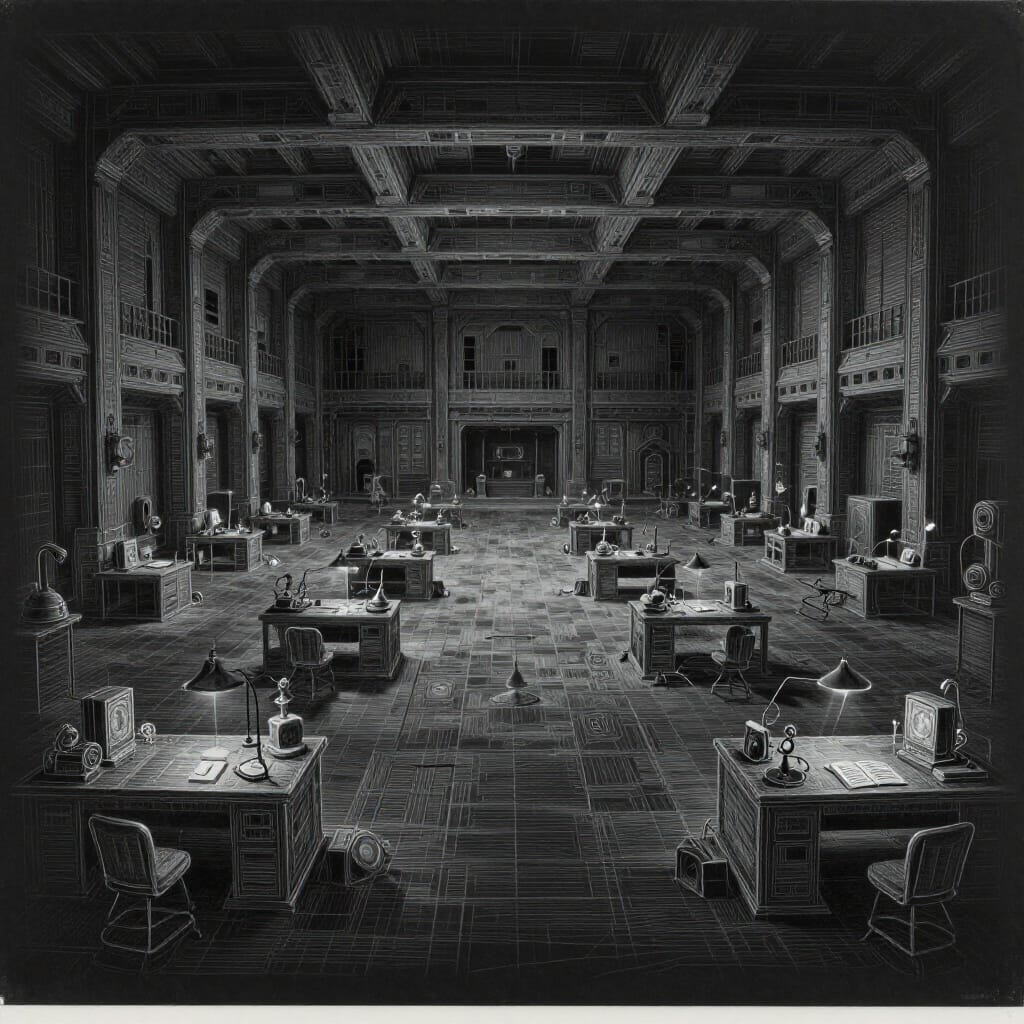
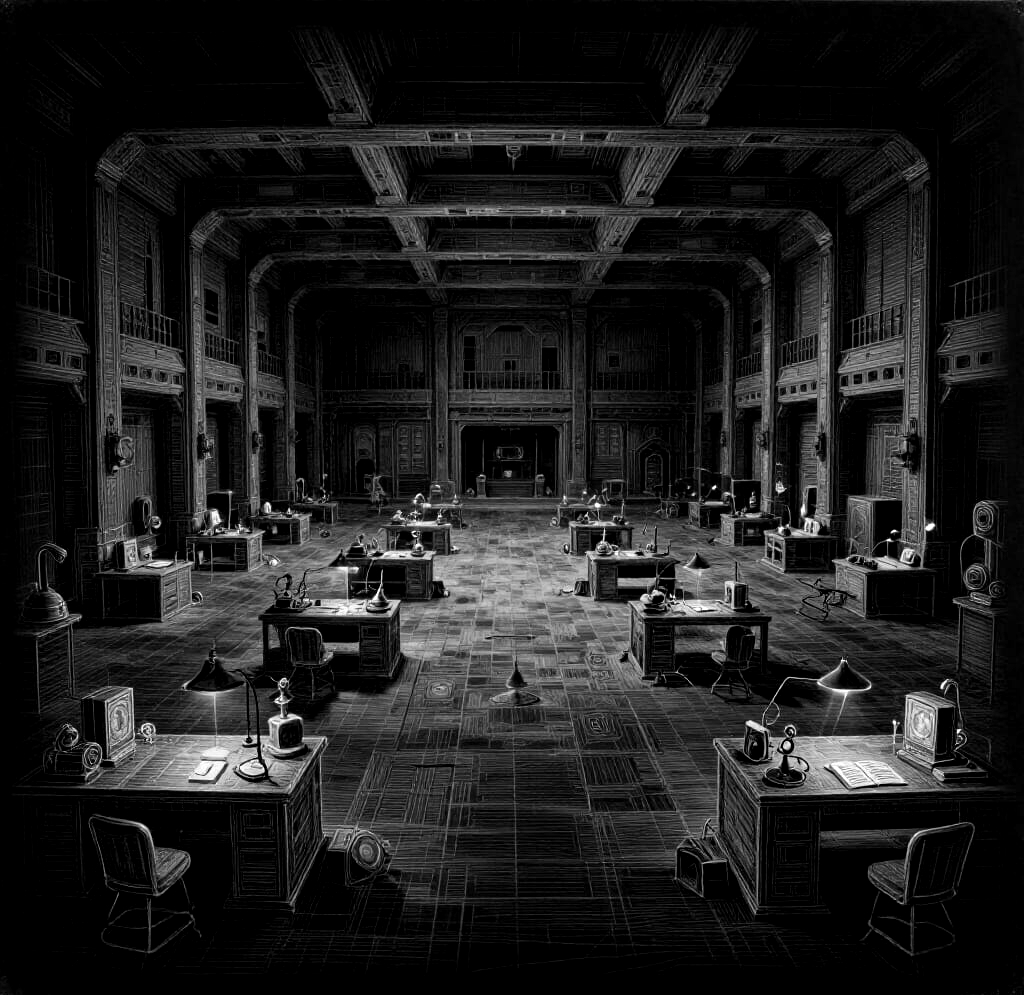
Improve restore darkness handling and update temporary lab art

diff --git a/src/io.js b/src/io.js
@@ -39,6 +39,8 @@ class GameIoController {
     this.currentRoomName = '';
     this.currentRoomId = 0;
     this.lastTurnWasPitchBlack = false;
+    this.flashlightOverride = null;
+    this.lastSceneIsDark = null;
     this.previousVmLine = '';
     this.debugEnabled = false;
     this.sfxEnabled = true;
@@ -91,6 +93,8 @@ class GameIoController {
     this.currentRoomName = '';
     this.currentRoomId = 0;
     this.lastTurnWasPitchBlack = false;
+    this.flashlightOverride = null;
+    this.lastSceneIsDark = null;
     this.previousVmLine = '';
     this.onRoomChanged('', 0, { isDark: false });
     this.vm = new window.Z3VM({
@@ -225,6 +229,9 @@ class GameIoController {
       this.ui.setStatus('Interpreter command', this.debugEnabled ? 'Debug on' : 'Debug off');
       return true;
     }
+    if (normalized.startsWith('$FLASHLIGHT')) {
+      return this._handleFlashlightCommand(original);
+    }
     if (normalized.startsWith('$SAVES')) {
       this._listSaveSlots();
       return true;
@@ -355,6 +362,32 @@ class GameIoController {
       return true;
   }
 
+  _handleFlashlightCommand(command) {
+    const parts = String(command || '').trim().split(/\s+/);
+    const mode = (parts[1] || '').toUpperCase();
+    if (mode !== 'ON' && mode !== 'OFF') {
+      this.ui.appendOutput('Usage: $FLASHLIGHT ON|OFF', 'error');
+      this.ui.setStatus('Interpreter command', 'Flashlight usage');
+      return true;
+    }
+
+    // Temporary visual override for testing dark-room art behavior.
+    this.flashlightOverride = mode === 'ON' ? 'on' : null;
+    const active = this.flashlightOverride === 'on';
+    this.ui.appendOutput(
+      'Temporary flashlight override is now ' + (active ? 'ON' : 'OFF') + '.',
+      'system'
+    );
+    this.ui.setStatus('Interpreter command', active ? 'Flashlight ON' : 'Flashlight OFF');
+
+    if (this.currentRoomId || this.currentRoomName) {
+      const isDark = this._isDarkForScene();
+      this.lastSceneIsDark = isDark;
+      this.onRoomChanged(this.currentRoomName, this.currentRoomId, { isDark });
+    }
+    return true;
+  }
+
   setSoundEffectsVolume(value) {
     this.sfxVolume = this._clampVolume(value);
     this._refreshActiveSoundVolumes(SOUND_CLASS_SFX);
@@ -456,6 +489,7 @@ class GameIoController {
         serial: compat.serial,
         release: compat.release,
         checksum: compat.checksum,
+        sceneIsDark: !!this.lastTurnWasPitchBlack,
         quetzalData: this.vm.serializePendingSaveState(),
       });
       this.vm.completePendingSave(true);
@@ -487,6 +521,9 @@ class GameIoController {
       this._assertCompatibleSaveRecord(record);
       this._prepareAudioForRestore();
       this.vm.restoreSaveState(record.quetzalData);
+      const probedDark = this._probeDarknessFromCurrentState();
+      this.lastTurnWasPitchBlack = (probedDark === null) ? !!record.sceneIsDark : probedDark;
+      this.lastSceneIsDark = null;
       this._syncStatusDisplays();
       this.ui.setStatus('Story restore', 'Loaded slot ' + slot);
     } catch (error) {
@@ -516,6 +553,7 @@ class GameIoController {
         serial: compat.serial,
         release: compat.release,
         checksum: compat.checksum,
+        sceneIsDark: !!this.lastTurnWasPitchBlack,
         quetzalData: this.vm.serializeSaveState(),
       });
       this.ui.appendOutput(
@@ -566,6 +604,9 @@ class GameIoController {
       this._assertCompatibleSaveRecord(record);
       this._prepareAudioForRestore();
       this.vm.restoreSaveState(record.quetzalData);
+      const probedDark = this._probeDarknessFromCurrentState();
+      this.lastTurnWasPitchBlack = (probedDark === null) ? !!record.sceneIsDark : probedDark;
+      this.lastSceneIsDark = null;
       this._syncStatusDisplays();
       this.ui.appendOutput(
         'Loaded slot ' + slot + ' (' + (record.label || 'saved game') + ').',
@@ -723,6 +764,63 @@ class GameIoController {
     return normalized === 'it is pitch black.';
   }
 
+  _isDarkForScene() {
+    if (this.flashlightOverride === 'on') {
+      return false;
+    }
+    return this.lastTurnWasPitchBlack;
+  }
+
+  _probeDarknessFromCurrentState() {
+    if (
+      !this.vm ||
+      typeof this.vm.serializeSaveState !== 'function' ||
+      typeof this.vm.restoreSaveState !== 'function' ||
+      this.vm.haltReason !== 'input'
+    ) {
+      return null;
+    }
+
+    const vmSnapshot = this.vm.serializeSaveState();
+    const prevOutputBuffer = this.outputBuffer;
+    const prevPendingDark = this.lastTurnWasPitchBlack;
+    const prevOnOutput = this.vm.onOutput;
+    const prevOnSoundEffect = this.vm.onSoundEffect;
+    const prevOnUnknownOpcode = this.vm.onUnknownOpcode;
+    const prevOnInputRequested = this.vm.onInputRequested;
+    let probeOutput = '';
+
+    try {
+      this.outputBuffer = '';
+      this.lastTurnWasPitchBlack = false;
+      this.vm.onOutput = text => {
+        probeOutput += String(text || '');
+      };
+      this.vm.onSoundEffect = function () {};
+      this.vm.onUnknownOpcode = function () {};
+      this.vm.onInputRequested = function () {};
+
+      this.vm.provideInput('look');
+      this.vm.run(200000);
+
+      return /\bit is pitch black\./i.test(probeOutput);
+    } catch (error) {
+      return null;
+    } finally {
+      try {
+        this.vm.restoreSaveState(vmSnapshot);
+      } catch (restoreError) {
+        // If restore fails, keep going; caller will fall back to metadata/default behavior.
+      }
+      this.vm.onOutput = prevOnOutput;
+      this.vm.onSoundEffect = prevOnSoundEffect;
+      this.vm.onUnknownOpcode = prevOnUnknownOpcode;
+      this.vm.onInputRequested = prevOnInputRequested;
+      this.outputBuffer = prevOutputBuffer;
+      this.lastTurnWasPitchBlack = prevPendingDark;
+    }
+  }
+
   _isComputerHelpHintLine(line) {
     const normalized = String(line || '').toLowerCase();
     return normalized.includes('login your-user-id') && normalized.includes('password your-password');
@@ -847,12 +945,16 @@ class GameIoController {
     const snapshot = this.vm.getStatusSnapshot();
     const roomId = snapshot && Number.isFinite(snapshot.roomObjectId) ? snapshot.roomObjectId : 0;
     const roomName = snapshot && snapshot.roomName ? snapshot.roomName : '';
-    if (roomId !== this.currentRoomId || roomName !== this.currentRoomName) {
+    const isDark = this._isDarkForScene();
+    if (
+      roomId !== this.currentRoomId ||
+      roomName !== this.currentRoomName ||
+      isDark !== this.lastSceneIsDark
+    ) {
       this.currentRoomId = roomId;
       this.currentRoomName = roomName;
-      this.onRoomChanged(this.currentRoomName, this.currentRoomId, {
-        isDark: this.lastTurnWasPitchBlack,
-      });
+      this.lastSceneIsDark = isDark;
+      this.onRoomChanged(this.currentRoomName, this.currentRoomId, { isDark });
     }
     this.ui.setTopbarMeta(
       roomName || '',
